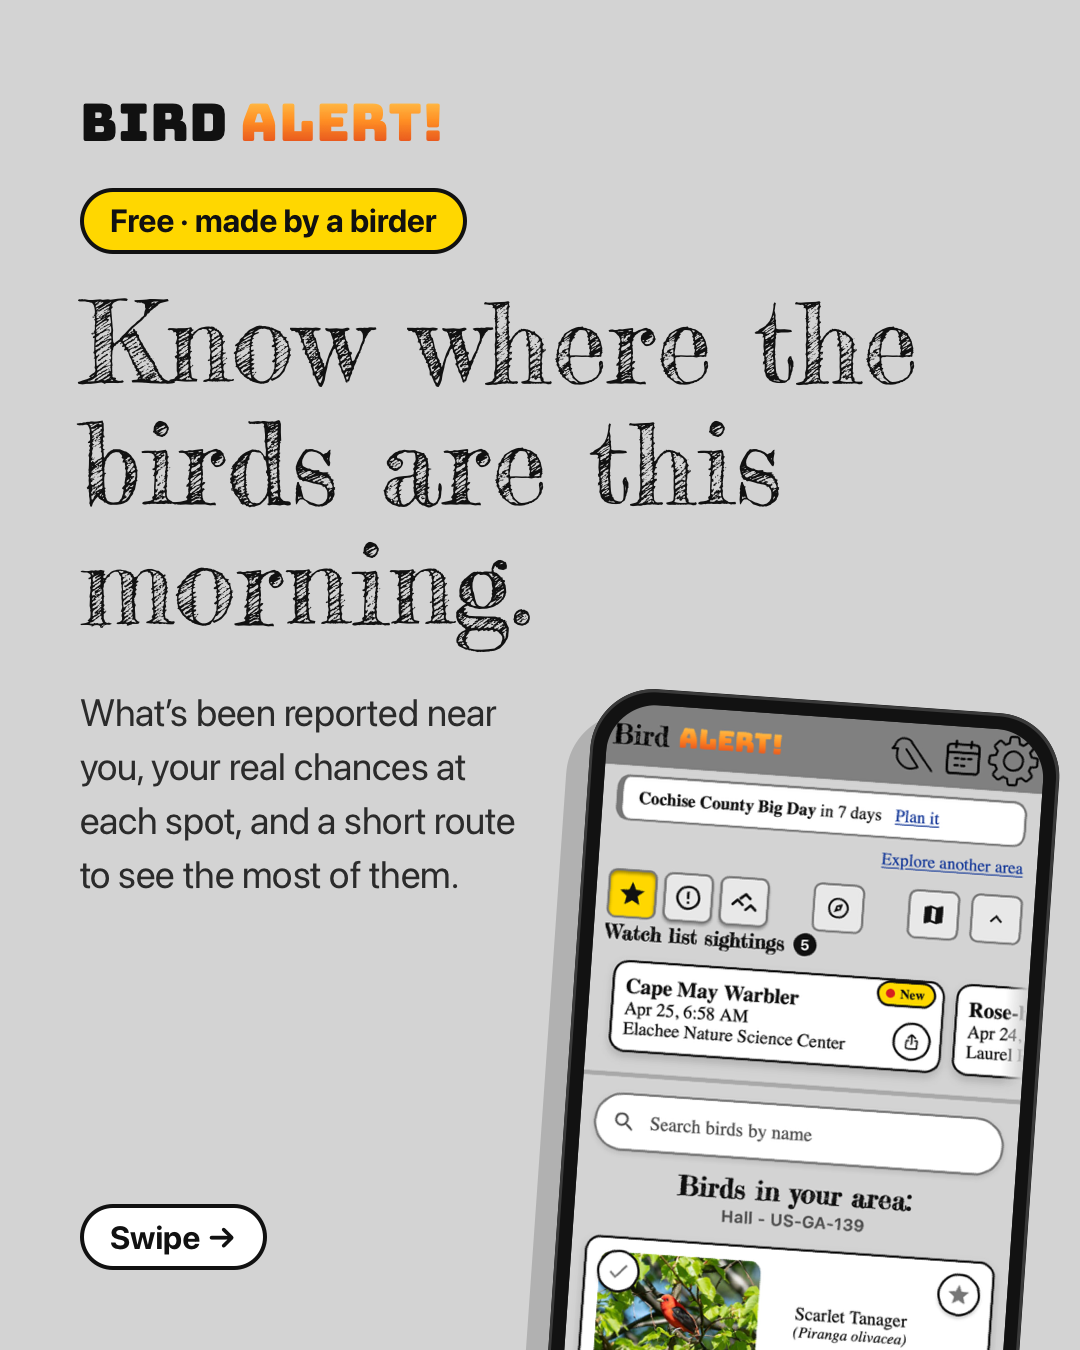
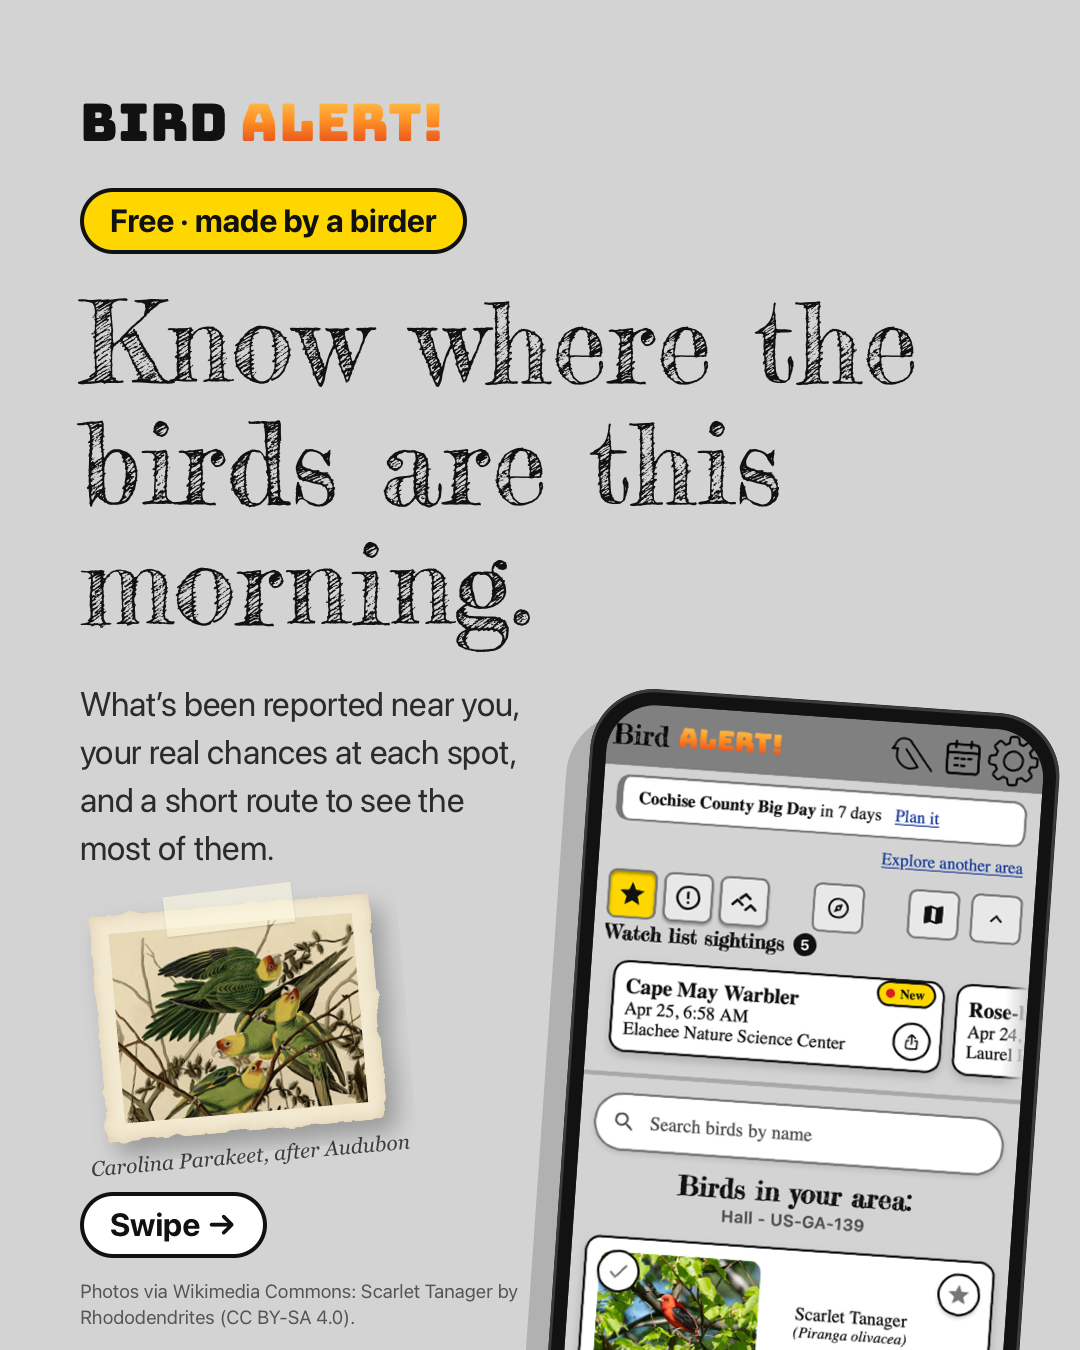
Marketing: photo credits, Audubon prints, stop times on slide 6, a stopped clock
Photos are checked against Commons and credited on the slides that show them, with
CREDITS.md and out/caption-credits.txt written on every render. Public-domain Audubon
plates appear as old prints on the cover, Big Day and Free slides. Slide 6 shows the
stays, legs and totals from #199. Each screen gets its own context and its clock stops
at a fixed moment before capture, so two renders in a row come out byte-identical.

Changed region(s): [[0.0611, 0.4978, 0.4889, 0.9956], [0.3361, 0.9333, 0.4583, 0.9644]]

diff --git a/marketing/slides/slides.css b/marketing/slides/slides.css
@@ -111,3 +111,48 @@ h1.big { font-size: 112px; }
 .push .text { grid-column: 2 / 4; font: 400 27px/1.3 var(--sans); color: #222; }
 
 .foot { position: absolute; left: 80px; right: 80px; bottom: 64px; }
+
+/* An Audubon plate as an old print: cream paper with a torn (deckled) edge, a strip of tape, a
+   soft shadow, a slight tilt, and an italic caption under it. Each slide sets where it sits, its
+   size and tilt (--tilt), and the crop (--zoom and --focus on the img):
+   <figure class="print" style="left: …; top: …; width: …; --tilt: -5deg">
+     <div class="print__paper"><div class="print__art" style="height: …"><img src="../.cache/plates/….jpg" style="--zoom: 1.4; --focus: 50% 30%"></div></div>
+     <figcaption>Bird, after Audubon</figcaption>
+   </figure>
+   The torn edge is the #deckle SVG filter that each slide with a print carries. */
+.print { position: absolute; margin: 0; transform: rotate(var(--tilt, -4deg)); }
+.print__paper { position: relative; padding: 18px; }
+.print__paper::before {
+  content: '';
+  position: absolute;
+  inset: 0;
+  background: #f3ead2;
+  box-shadow: inset 0 0 18px rgba(150, 120, 60, 0.25);
+  filter: url(#deckle) drop-shadow(10px 14px 14px rgba(0, 0, 0, 0.28));
+}
+/* The art is cropped by its box: object-fit fills it, --zoom and --focus pick the part of the plate. */
+.print__art { position: relative; overflow: hidden; }
+.print__art img { display: block; width: 100%; height: 100%; object-fit: cover; object-position: var(--focus, 50% 50%); transform: scale(var(--zoom, 1)); transform-origin: var(--focus, 50% 50%); filter: sepia(0.12) saturate(0.92); }
+/* Translucent tape across the top edge. */
+.print__paper::after {
+  content: '';
+  position: absolute;
+  top: -16px;
+  left: 50%;
+  width: 46%;
+  height: 40px;
+  transform: translateX(-50%) rotate(-2deg);
+  background: rgba(255, 252, 228, 0.55);
+  box-shadow: 0 1px 3px rgba(0, 0, 0, 0.12);
+}
+.print figcaption {
+  /* One line, even when it runs a little wider than the print. */
+  margin: 12px -60px 0;
+  white-space: nowrap;
+  text-align: center;
+  font: italic 400 21px/1.2 Georgia, 'Times New Roman', serif;
+  color: #3d3d3d;
+}
+
+/* The credit for the bird photos inside the phone screens. */
+.credit { font: 400 19px/1.35 var(--sans); color: #555; }

diff --git a/marketing/slides/07-free.html b/marketing/slides/07-free.html
@@ -2,16 +2,25 @@
 <html lang="en">
 <head><meta charset="utf-8"><title>Bird Alert! 7/7: free</title><link rel="stylesheet" href="slides.css"></head>
 <body>
+<svg width="0" height="0" style="position: absolute" aria-hidden="true"><filter id="deckle"><feTurbulence type="fractalNoise" baseFrequency="0.035" numOctaves="3" seed="7"/><feDisplacementMap in="SourceGraphic" scale="12" xChannelSelector="R" yChannelSelector="G"/></filter></svg>
 <div class="slide">
   <div class="counter">7/7</div>
   <span class="pill">Add it to your Home Screen</span>
   <h1>Free. No ads. No app store.</h1>
   <p class="body" style="margin-top: 22px; font-size: 32px">It’s a website that works like an app. Open it in Safari, add it to your Home Screen, and turn on alerts.</p>
   <div class="lift" style="left: 80px; top: 540px; width: 540px; border: 0; border-radius: 30px"><img src="../.cache/shots/install.png" alt=""></div>
+  <figure class="print" style="left: 670px; top: 545px; width: 220px; --tilt: 6deg">
+    <div class="print__paper"><div class="print__art" style="height: 200px"><img src="../.cache/plates/snowy-owl.jpg" alt="" style="--zoom: 1.3; --focus: 40% 45%"></div></div>
+    <figcaption>Snowy Owl, after Audubon</figcaption>
+  </figure>
+  <figure class="print" style="left: 715px; top: 868px; width: 220px; --tilt: -5deg">
+    <div class="print__paper"><div class="print__art" style="height: 230px"><img src="../.cache/plates/ivory-billed-woodpecker.jpg" alt="" style="--zoom: 1.6; --focus: 45% 25%"></div></div>
+    <figcaption>Ivory-billed Woodpecker, after Audubon</figcaption>
+  </figure>
   <div class="foot">
     <div class="wordmark" style="font-size: 44px">BIRD <span class="alert">ALERT!</span></div>
     <p class="url" style="margin-top: 22px; font-size: 52px">bird-alert.vercel.app</p>
-    <p class="small" style="margin-top: 22px">Built on eBird data, from the Cornell Lab of Ornithology.</p>
+    <p class="small" style="margin-top: 22px">Sightings and checklists from eBird, the Cornell Lab of Ornithology</p>
   </div>
 </div>
 </body>

diff --git a/marketing/slides/06-group.html b/marketing/slides/06-group.html
@@ -3,16 +3,20 @@
 <head><meta charset="utf-8"><title>Bird Alert! 6/7: plan it with your group</title><link rel="stylesheet" href="slides.css">
 <style>
   .clip { height: 860px; position: relative; }
-  /* Starts at the map: the route's own part of the scouting section (222 of the screen's 390 px down). */
-  .clip img { position: absolute; left: 0; top: calc(-438px * 222 / 390); width: 100%; }
+  /* Starts at the route's summary line (490 of the screen's 390 px-wide shot down), so the stops,
+     their times and the day's totals fit. */
+  .clip img { position: absolute; left: 0; top: calc(-438px * 490 / 390); width: 100%; }
+  .crop { overflow: hidden; }
+  .crop img { display: block; width: 100%; }
 </style></head>
 <body>
 <div class="slide">
   <div class="counter">6/7</div>
   <span class="pill">Plan it with your group</span>
   <h1>One route for the whole group.</h1>
-  <p class="body" style="margin-top: 22px; width: 420px; font-size: 32px">Send a link. Everyone sees and edits the same route, with the drive between stops and the total for the day.</p>
-  <div class="lift" style="left: 70px; top: 760px; width: 450px; background: var(--bg)"><img src="../.cache/shots/people.png" alt=""></div>
+  <p class="body" style="margin-top: 22px; width: 430px; font-size: 32px">Send a link. Everyone sees and edits the same route: time at each stop, the drive between, and the day’s total.</p>
+  <div class="lift" style="left: 80px; top: 600px; width: 420px"><div class="crop" style="height: 400px"><img src="../.cache/shots/route-edit.png" alt=""></div></div>
+  <div class="lift" style="left: 80px; top: 1060px; width: 420px; background: var(--bg)"><div class="crop" style="height: 196px"><img src="../.cache/shots/people.png" alt=""></div></div>
   <div class="phone tilt-r" style="left: 560px; top: 430px"><div class="clip"><img src="../.cache/shots/route.png" alt=""></div></div>
 </div>
 </body>

diff --git a/marketing/slides/01-cover.html b/marketing/slides/01-cover.html
@@ -2,13 +2,19 @@
 <html lang="en">
 <head><meta charset="utf-8"><title>Bird Alert! 1/7: cover</title><link rel="stylesheet" href="slides.css"></head>
 <body>
+<svg width="0" height="0" style="position: absolute" aria-hidden="true"><filter id="deckle"><feTurbulence type="fractalNoise" baseFrequency="0.035" numOctaves="3" seed="7"/><feDisplacementMap in="SourceGraphic" scale="12" xChannelSelector="R" yChannelSelector="G"/></filter></svg>
 <div class="slide">
   <div class="wordmark">BIRD <span class="alert">ALERT!</span></div>
   <div style="margin-top: 40px"><span class="pill">Free · made by a birder</span></div>
   <h1 class="big">Know where the birds are this morning.</h1>
-  <p class="body" style="width: 440px; margin-top: 40px">What’s been reported near you, your real chances at each spot, and a short route to see the most of them.</p>
+  <p class="body" style="width: 440px; margin-top: 34px; font-size: 34px">What’s been reported near you, your real chances at each spot, and a short route to see the most of them.</p>
+  <figure class="print" style="left: 100px; top: 905px; width: 280px; --tilt: -5deg">
+    <div class="print__paper"><div class="print__art" style="height: 190px"><img src="../.cache/plates/carolina-parakeet.jpg" alt="" style="--zoom: 1.5; --focus: 50% 18%"></div></div>
+    <figcaption>Carolina Parakeet, after Audubon</figcaption>
+  </figure>
+  <div style="position: absolute; left: 80px; top: 1192px"><span class="pill pill--plain">Swipe →</span></div>
+  <p class="credit" data-photos="home" style="position: absolute; left: 80px; top: 1278px; width: 440px"></p>
   <div class="phone tilt-r" style="left: 560px; top: 700px"><img src="../.cache/shots/home.png" alt=""></div>
-  <div style="position: absolute; left: 80px; bottom: 80px"><span class="pill pill--plain">Swipe →</span></div>
 </div>
 </body>
 </html>

diff --git a/marketing/slides/02-alerts.html b/marketing/slides/02-alerts.html
@@ -3,11 +3,12 @@
 <head><meta charset="utf-8"><title>Bird Alert! 2/7: alerts</title><link rel="stylesheet" href="slides.css">
 <style>
   h1 { font-size: 80px; }
-  .content { position: absolute; left: 62px; right: 80px; top: 486px; display: grid; grid-template-columns: 410px 1fr; gap: 30px; align-items: start; }
+  .content { position: absolute; left: 62px; right: 80px; top: 530px; display: grid; grid-template-columns: 410px 1fr; gap: 30px; align-items: start; }
   .cards { display: grid; gap: 0; }
   .cards img { display: block; width: 100%; }
   .cards img + img { margin-top: -26px; }
-  .pushes { display: grid; gap: 22px; padding-top: 40px; }
+  .pushes { display: grid; gap: 22px; padding-top: 18px; }
+  .area { position: absolute; left: 80px; top: 498px; font: 700 24px/1 var(--sans); letter-spacing: 0.06em; text-transform: uppercase; color: var(--muted); }
   .pushes .push { position: static; }
   .push .title { font-size: 26px; }
   .push .text { font-size: 24px; }
@@ -18,6 +19,7 @@
   <span class="pill">Alerts that matter</span>
   <h1>Rare birds, soon after they’re reported.</h1>
   <p class="body" style="margin-top: 18px; font-size: 30px">A push for the birds on your list and the rare ones nearby. The rarer the bird, the hotter the card.</p>
+  <p class="area">Notable this week · Cochise County, AZ</p>
   <div class="content">
     <div class="cards">
       <img src="../.cache/shots/alert-1.png" alt="">

diff --git a/marketing/slides/05-big-day.html b/marketing/slides/05-big-day.html
@@ -3,11 +3,16 @@
 <head><meta charset="utf-8"><title>Bird Alert! 5/7: Big Day scouting</title><link rel="stylesheet" href="slides.css">
 <style>.clip { height: 860px; } .clip img { display: block; width: 100%; }</style></head>
 <body>
+<svg width="0" height="0" style="position: absolute" aria-hidden="true"><filter id="deckle"><feTurbulence type="fractalNoise" baseFrequency="0.035" numOctaves="3" seed="7"/><feDisplacementMap in="SourceGraphic" scale="12" xChannelSelector="R" yChannelSelector="G"/></filter></svg>
 <div class="slide">
   <div class="counter">5/7</div>
   <span class="pill">Big Day scouting</span>
   <h1>Scout your Big Day all week.</h1>
   <p class="body" style="margin-top: 22px; width: 400px; font-size: 32px">Pick your targets. Each morning it checks where they’ve been reported, maps the places with the most of them, and lists what’s still missing.</p>
+  <figure class="print" style="left: 90px; top: 800px; width: 340px; --tilt: -5deg">
+    <div class="print__paper"><div class="print__art" style="height: 330px"><img src="../.cache/plates/roseate-spoonbill.jpg" alt="" style="--zoom: 1.15; --focus: 45% 40%"></div></div>
+    <figcaption>Roseate Spoonbill, after Audubon</figcaption>
+  </figure>
   <div class="phone tilt-r" style="left: 540px; top: 440px"><div class="clip"><img src="../.cache/shots/scouting.png" alt=""></div></div>
 </div>
 </body>

diff --git a/marketing/sheet.html b/marketing/sheet.html
@@ -1,0 +1,1 @@
+<body style="margin:0;background:#888;display:flex;gap:8px;align-items:flex-start;flex-wrap:wrap"><img src="file:///Users/mben/Github/bird-alert/.claude/worktrees/agent-a2e765ae8085c88e5/marketing/out/01-cover.png" style="width:530px"><img src="file:///Users/mben/Github/bird-alert/.claude/worktrees/agent-a2e765ae8085c88e5/marketing/out/05-big-day.png" style="width:530px"><img src="file:///Users/mben/Github/bird-alert/.claude/worktrees/agent-a2e765ae8085c88e5/marketing/out/07-free.png" style="width:530px"><img src="file:///Users/mben/Github/bird-alert/.claude/worktrees/agent-a2e765ae8085c88e5/marketing/out/story.png" style="width:530px"></body>

diff --git a/marketing/slides/story.html b/marketing/slides/story.html
@@ -7,6 +7,7 @@
   <div style="margin-top: 44px"><span class="pill">Free · made by a birder</span></div>
   <h1 class="big" style="font-size: 120px">Know where the birds are this morning.</h1>
   <div style="margin-top: 56px"><span class="pill pill--plain" style="font-size: 46px; padding: 16px 40px">bird-alert.vercel.app</span></div>
+  <p class="credit" data-photos="home" style="position: absolute; left: 80px; top: 918px; width: 920px; font-size: 22px"></p>
   <div class="phone tilt-r" style="left: 290px; top: 990px; width: 560px"><img src="../.cache/shots/home.png" alt=""></div>
 </div>
 </body>

diff --git a/marketing/CREDITS.md b/marketing/CREDITS.md
@@ -1,0 +1,25 @@
+# Credits for the marketing slides
+
+Written by `render.mjs` on every render; edit the script, not this file.
+
+## Bird photos
+
+From Wikimedia Commons, used under their licences. The phone screens show them as the app does.
+
+- Cape May Warbler: [Setophaga tigrina Male.jpg](https://commons.wikimedia.org/wiki/File:Setophaga_tigrina_Male.jpg) by Will123w, [CC BY 4.0](https://creativecommons.org/licenses/by/4.0)
+- Scarlet Tanager: [Scarlet tanager in GWC (50867).jpg](https://commons.wikimedia.org/wiki/File:Scarlet_tanager_in_GWC_(50867).jpg) by Rhododendrites, [CC BY-SA 4.0](https://creativecommons.org/licenses/by-sa/4.0)
+
+## Audubon plates
+
+John James Audubon, *The Birds of America* (Havell edition, 1827–38). Public domain; scans from Wikimedia Commons.
+
+- Carolina Parakeet (plate 26): [26 Carolina Parrot.jpg](https://commons.wikimedia.org/wiki/File:26_Carolina_Parrot.jpg), public domain. On 01-cover.png.
+- Ivory-billed Woodpecker (plate 66): [66 Ivory-billed Woodpecker.jpg](https://commons.wikimedia.org/wiki/File:66_Ivory-billed_Woodpecker.jpg), public domain. On 07-free.png.
+- Snowy Owl (plate 121): [121 Snowy Owl.jpg](https://commons.wikimedia.org/wiki/File:121_Snowy_Owl.jpg), public domain. On 07-free.png.
+- Roseate Spoonbill (plate 321): [321 Roseate Spoonbill.jpg](https://commons.wikimedia.org/wiki/File:321_Roseate_Spoonbill.jpg), public domain. On 05-big-day.png.
+
+## Data
+
+- Sightings and checklists come from eBird, the Cornell Lab of Ornithology (the reports on these slides are made up).
+- ABA Checklist codes are used with permission of the American Birding Association.
+- Maps: © OpenStreetMap contributors (openstreetmap.org/copyright). Drive routes from OSRM, on OpenStreetMap data.
